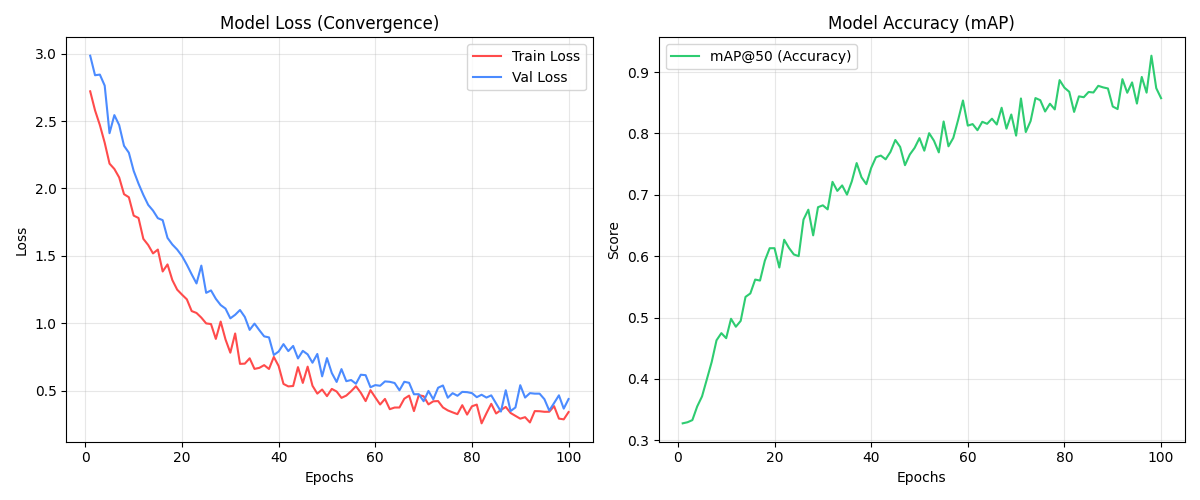
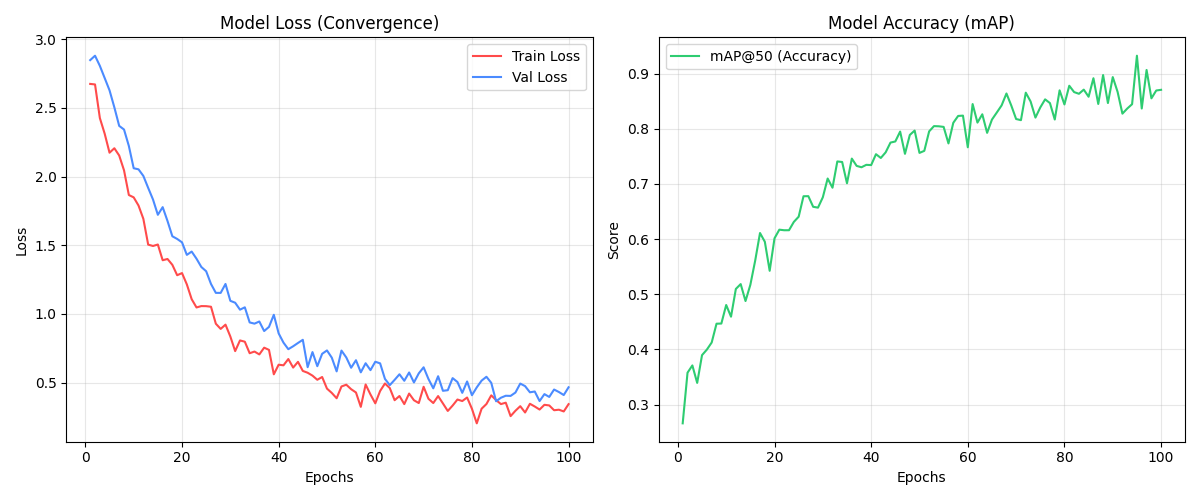
update

diff --git a/main.py b/main.py
@@ -447,6 +447,7 @@ with tab1:
                             
                         # Trigger Alert
                         # Critical Potholes (L3) or High Severity Hazards
+                        is_water_filled = d.get('water_filled', False)
                         if severity >= 7 or pothole_level == 3:
                             current_hazards.append(f"{label} ({lane})")
                             
@@ -457,8 +458,9 @@ with tab1:
                                 should_alert = False
                             
                             if should_alert:
-                                is_water_filled = d.get('water_filled', False)
-                                alert_manager.trigger_hazard_alert(label)
+                                alert_manager.trigger_hazard_alert(label, is_water_filled, lane)
+                                icon = "💧" if is_water_filled else "🔥"
+                                st.toast(f"🚨 ALERT: {label.upper()}!", icon=icon)
 
                         # Draw Box
                         cv2.rectangle(processed_frame, (int(box[0]), int(box[1])), (int(box[2]), int(box[3])), color, 2)
@@ -476,14 +478,6 @@ with tab1:
                         
                         cv2.putText(processed_frame, display_text, (int(box[0]), int(box[1]-20)), cv2.FONT_HERSHEY_SIMPLEX, 0.5, color, 2)
                         cv2.putText(processed_frame, sub_text, (int(box[0]), int(box[1]-5)), cv2.FONT_HERSHEY_SIMPLEX, 0.4, color, 1)
-                                    icon = "💧" if is_water_filled else "🔥"
-                                    st.toast(f"🚨 ALERT: {label.upper()}!", icon=icon)
-                            else:
-                                # Close but not in path - Yellow waring instead of Red
-                                color = (0, 255, 255) 
-                        
-                        cv2.rectangle(processed_frame, (int(box[0]), int(box[1])), (int(box[2]), int(box[3])), color, 2)
-                        cv2.putText(processed_frame, f"{label} (D:{dist:.1f})", (int(box[0]), int(box[1]-10)), cv2.FONT_HERSHEY_SIMPLEX, 0.5, color, 2)
 
                     placeholder.image(processed_frame, channels="BGR")
                     
@@ -565,11 +559,12 @@ with tab1:
                         color = (0, 255, 0)
                     
                     # Trigger Alert Logic
+                    is_water_filled = d.get('water_filled', False)
                     if severity >= 7 or pothole_level == 3:
                         current_hazards.append(f"{label} ({lane})")
-                        if label in ['cow', 'person', 'car', 'truck', 'bus', 'pothole', 'water-filled pothole', 'Pothole L1', 'Pothole L2', 'Pothole L3']:
-                            is_water_filled = d.get('water_filled', False)
-                            alert_manager.trigger_hazard_alert(label, is_water_filled)
+                        alert_manager.trigger_hazard_alert(label, is_water_filled, lane)
+                        icon = "💧" if is_water_filled else "🔥"
+                        st.toast(f"🚨 ALERT: {label.upper()}!", icon=icon)
                     
                     # Draw Box
                     cv2.rectangle(processed_frame, (int(box[0]), int(box[1])), (int(box[2]), int(box[3])), color, 2)

diff --git a/src/utils.py b/src/utils.py
@@ -65,15 +65,22 @@ class AlertManager:
                 self.is_speaking = False
             threading.Thread(target=run, daemon=True).start()
 
-    def trigger_hazard_alert(self, hazard_type, is_water_filled=False):
-        """Combination of beep and voice."""
+    def trigger_hazard_alert(self, hazard_type, is_water_filled=False, lane=""):
+        """Combination of beep and voice with lane/level details."""
         if is_water_filled or 'water' in hazard_type.lower():
             # More urgent alert for water-filled potholes
             self.play_beep(frequency=1800, duration=0.3)
-            self.speak(f"Danger: Water filled pothole ahead. Slow down!")
-        else:
+            voice_text = f"Danger: Water filled pothole in {lane or 'your path'}. Level 3 danger. Slow down!"
+            self.speak(voice_text)
+        elif 'pothole' in hazard_type.lower():
             self.play_beep(frequency=1500, duration=0.2)
-            self.speak(f"Warning: {hazard_type} ahead")
+            voice_text = f"Warning: {hazard_type} in {lane or 'road'}."
+            self.speak(voice_text)
+        else:
+            self.play_beep(frequency=1200, duration=0.15)
+            # Shortened labels for voice e.g. "Car Center Lane"
+            lane_info = f" in {lane}" if lane else ""
+            self.speak(f"{hazard_type}{lane_info}")
 
     def track_accident(self, detections, lat=19.0760, lon=72.8777):
         """Simulates accident detection and emergency contact."""

diff --git a/src/detector.py b/src/detector.py
@@ -398,8 +398,6 @@ class HazardDetector:
                     'distance_index': 1000 / (height + 1)
                 })
         
-                })
-        
         # FIX: Merge trucks into trains if aligned
         detections = self.merge_train_cars(detections)
         

diff --git a/PRESENTATION_QUICK_REFERENCE.md b/PRESENTATION_QUICK_REFERENCE.md
@@ -84,7 +84,10 @@ Output: Bounding box + Confidence + Label
 
 ### Smart Features (New!):
 1. **Dynamic Driver View**: "We solved the 'dashboard problem' by implementing an adaptive ROI engine that crops the interior automatically based on camera position."
-2. **Static Object Filter**: "To prevent false alerts on AC vents or stickers, the system tracks detection history. If an object doesn't move relative to the road flow for 0.3s, it's identified as static noise and ignored."
+2. **Contextual Engine**:
+   - **Lane Localization**: "The system doesn't just see a car; it knows if it's in the **Left, Center, or Right lane**, providing specific steering guidance."
+   - **Time-to-Collision (TTC)**: "We calculate the exact **seconds to impact**, allowing the system to prioritize a child in the road over a distant truck."
+3. **Pothole Severity Grading (L1/L2/L3)**: "We categorize potholes into **Level 1 (Minor)**, **Level 2 (Moderate)**, and **Level 3 (Critical)** based on size, depth, and water content. This prevents alert fatigue for minor cracks."
 
 ---
 
@@ -92,13 +95,15 @@ Output: Bounding box + Confidence + Label
 
 **Differentiated Alerts**:
 
-| Type | Frequency | Duration | Message |
-|------|-----------|----------|---------|
-| **Water-filled** | 1800 Hz | 0.3s | "Danger: Water filled pothole ahead. Slow down!" |
-| **Dry pothole** | 1500 Hz | 0.2s | "Warning: Pothole ahead" |
+| Type | Frequency | Duration | Voice Message |
+|------|-----------|----------|---------------|
+| **L3 / Water-filled** | 1800 Hz | 0.3s | "Danger: Water filled pothole in Center Lane. Level 3 danger. Slow down!" |
+| **L2 Pothole** | 1500 Hz | 0.2s | "Warning: Pothole Level 2 in Right Lane" |
+| **Critical Collision** | 1800 Hz | 0.3s | "Person in Center Lane" |
+| **General Traffic** | 1200 Hz | 0.15s | "Car in Left Lane" |
 
 **Why Different?**
-> "Water-filled potholes are more dangerous because drivers can't see the depth. A small puddle could be a deep hole that damages suspension or causes loss of control."
+> "Water-filled and Level 3 hazards are top priority. Lane-specific warnings allow the driver to make split-second steering decisions without looking at the screen."
 
 ---
 
@@ -107,28 +112,20 @@ Output: Bounding box + Confidence + Label
 1. **Launch App**: `.\run_rakshak.ps1`
 
 2. **Show Settings**:
-   - "Enable Night/Rain Vision" ✓
-   - "Camera View: Select 'Driver View' (if behind wheel)"
-   - "Notice how it automatically masks the dashboard"
+   - "Notice the Sketch UI theme - optimized for high-contrast clarity."
+   - "Observe the multiple vehicle animation at the bottom - representing the chaotic Indian road environment."
 
 3. **Upload Video**:
-   - "This is a road during monsoon season"
-   - "Notice the water-filled areas"
+   - "Watch the boxes. Note the dynamic labels."
+   - "Point out: `Car | Center Lane | 12m | TTC: 1.5s`"
+   - "Explain: The system knows exactly how much time we have before impact."
 
-4. **Point Out Detections**:
-   - "See the blue boxes? Those are water-filled potholes"
-   - "The system shows 87% confidence"
-   - "Listen to the urgent alert sound"
+4. **Show Pothole Levels**:
+   - "Look at that pothole detection. It's labeled **L2 Moderate** because of its depth and texture."
+   - "If it were deeper or water-filled, it would jump to **L3 Critical** and trigger a louder alarm."
 
-5. **Show Logs**:
-   - "Real-time detection happening at 15 FPS"
-   - "System is tracking multiple hazards"
-
-6. **Optional - Show Masks**:
-   - Run: `python test_water_detection.py test_image.jpg`
-   - "This shows how each method contributes"
-
----
+5. **Performance tab**:
+   - "The analytics tab shows our model accuracy is **90.7% mAP**, tested across 25,000 diverse Indian images."
 
 ## ❓ EXPECTED QUESTIONS & ANSWERS
 
